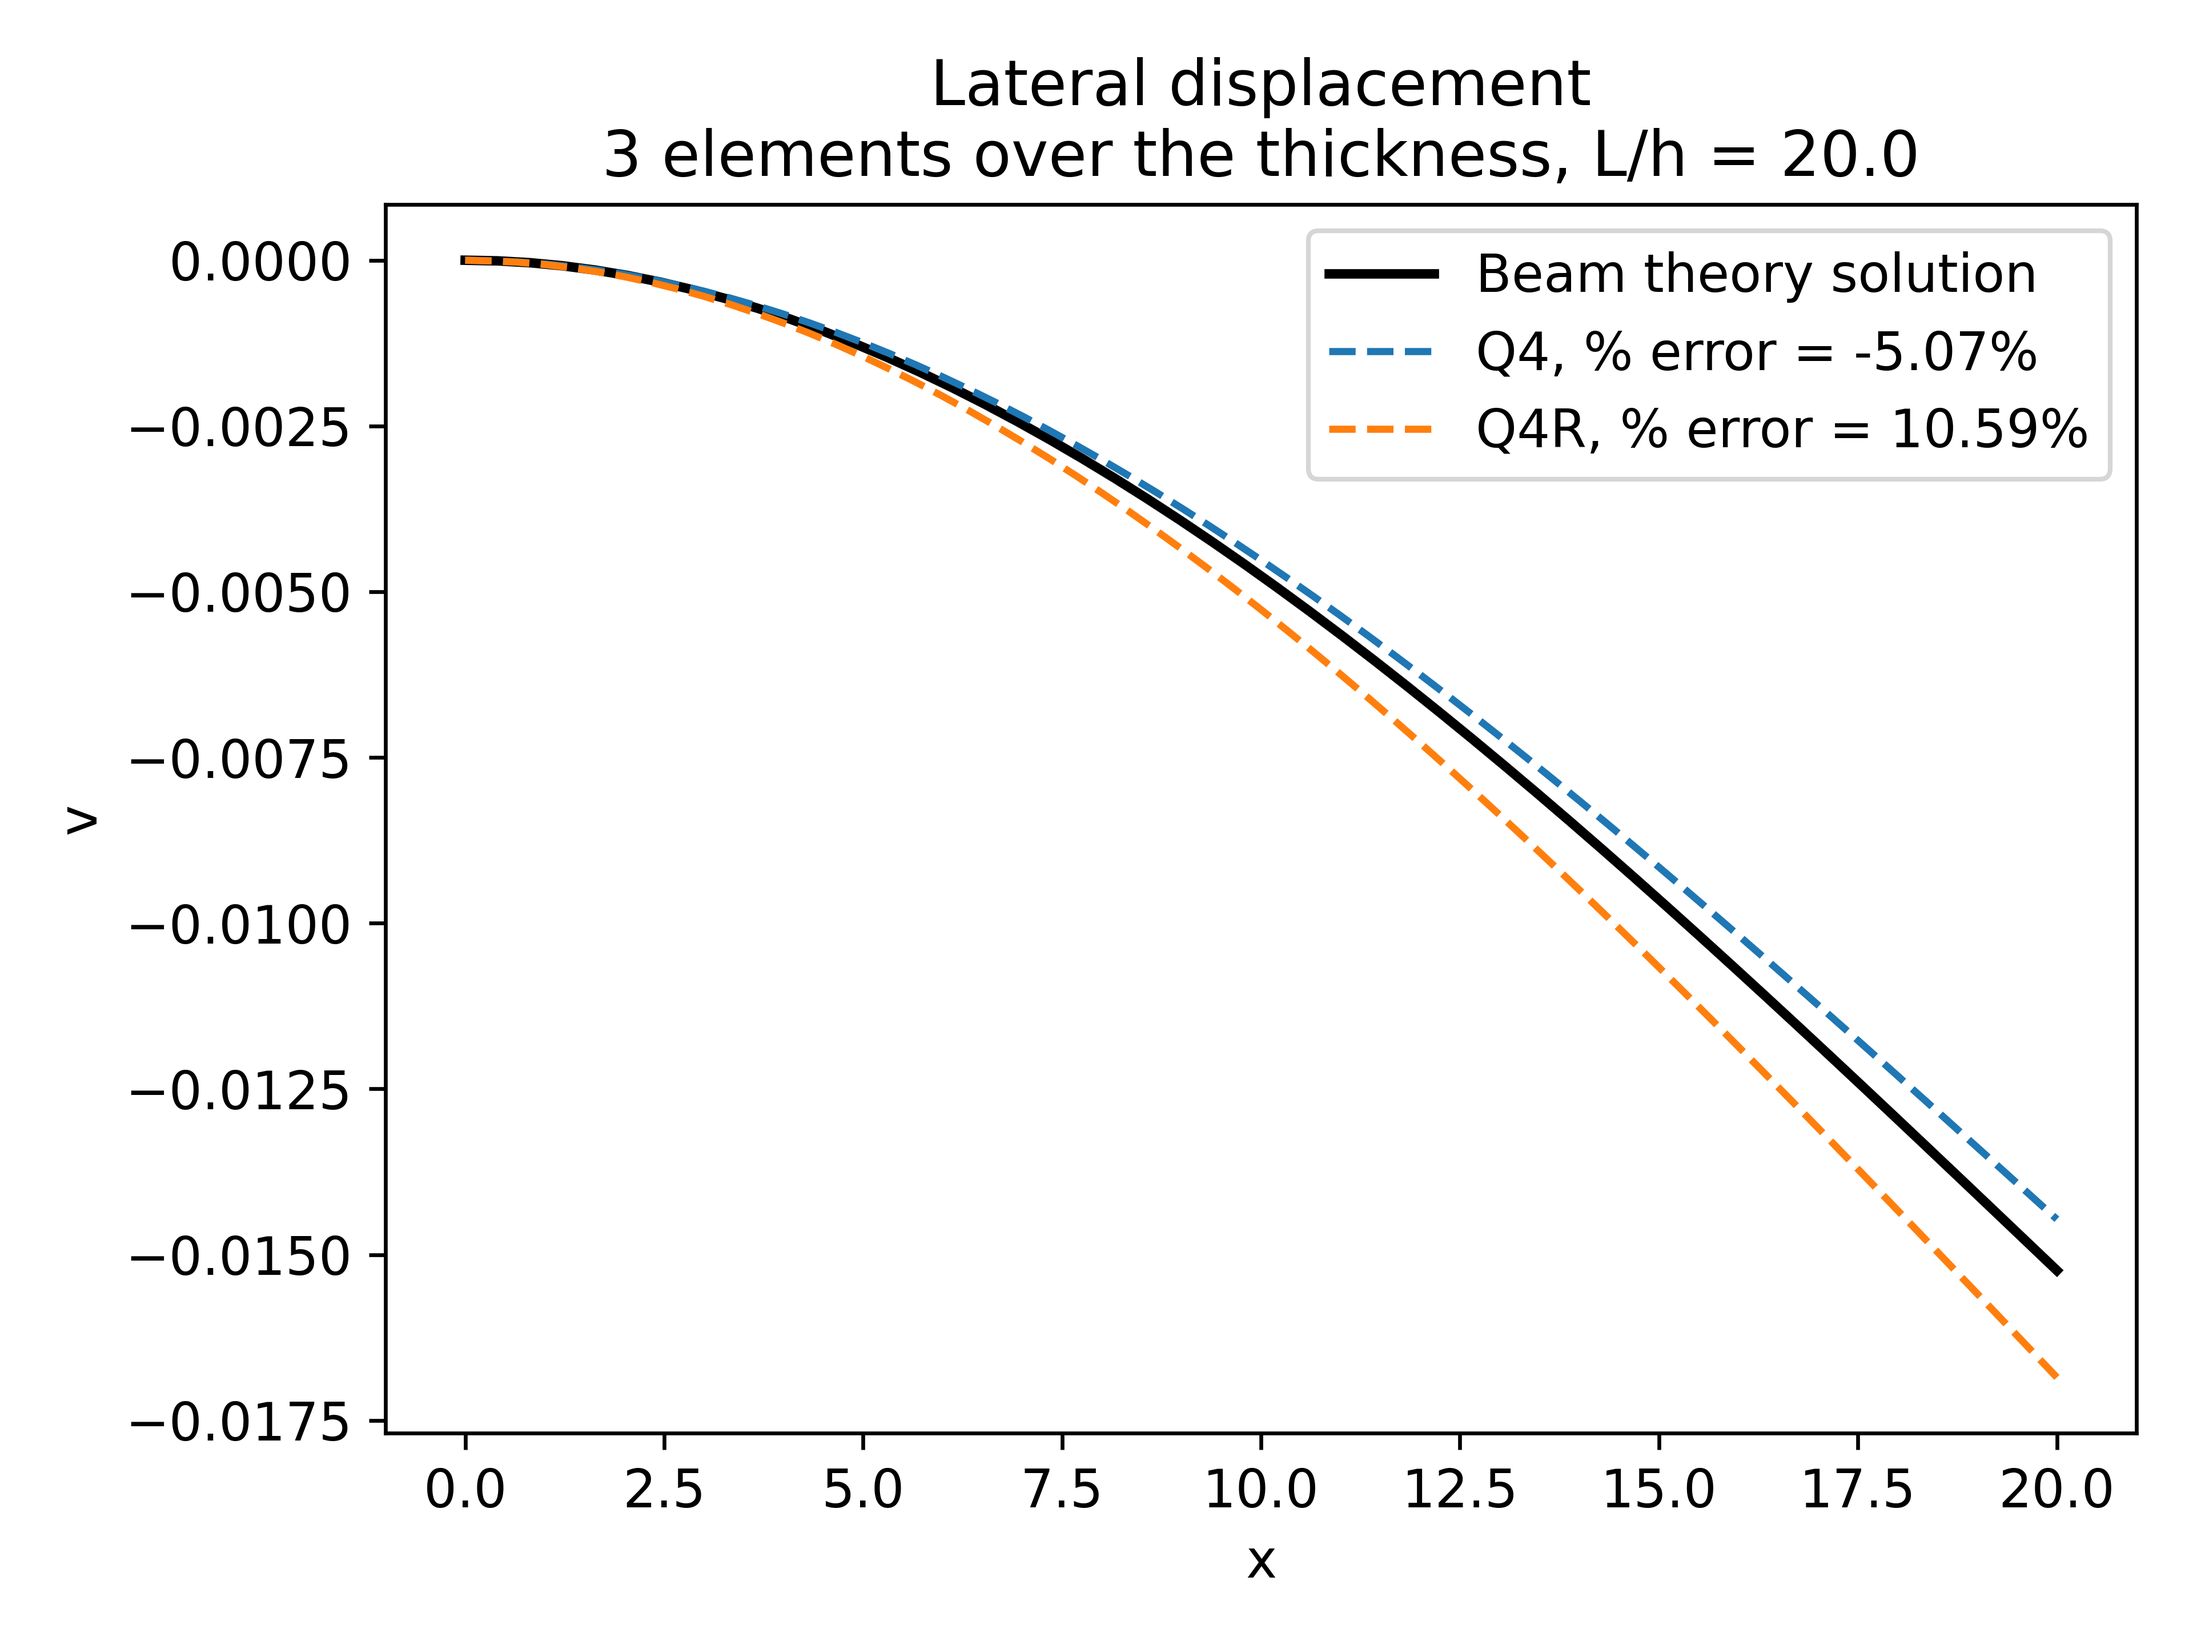
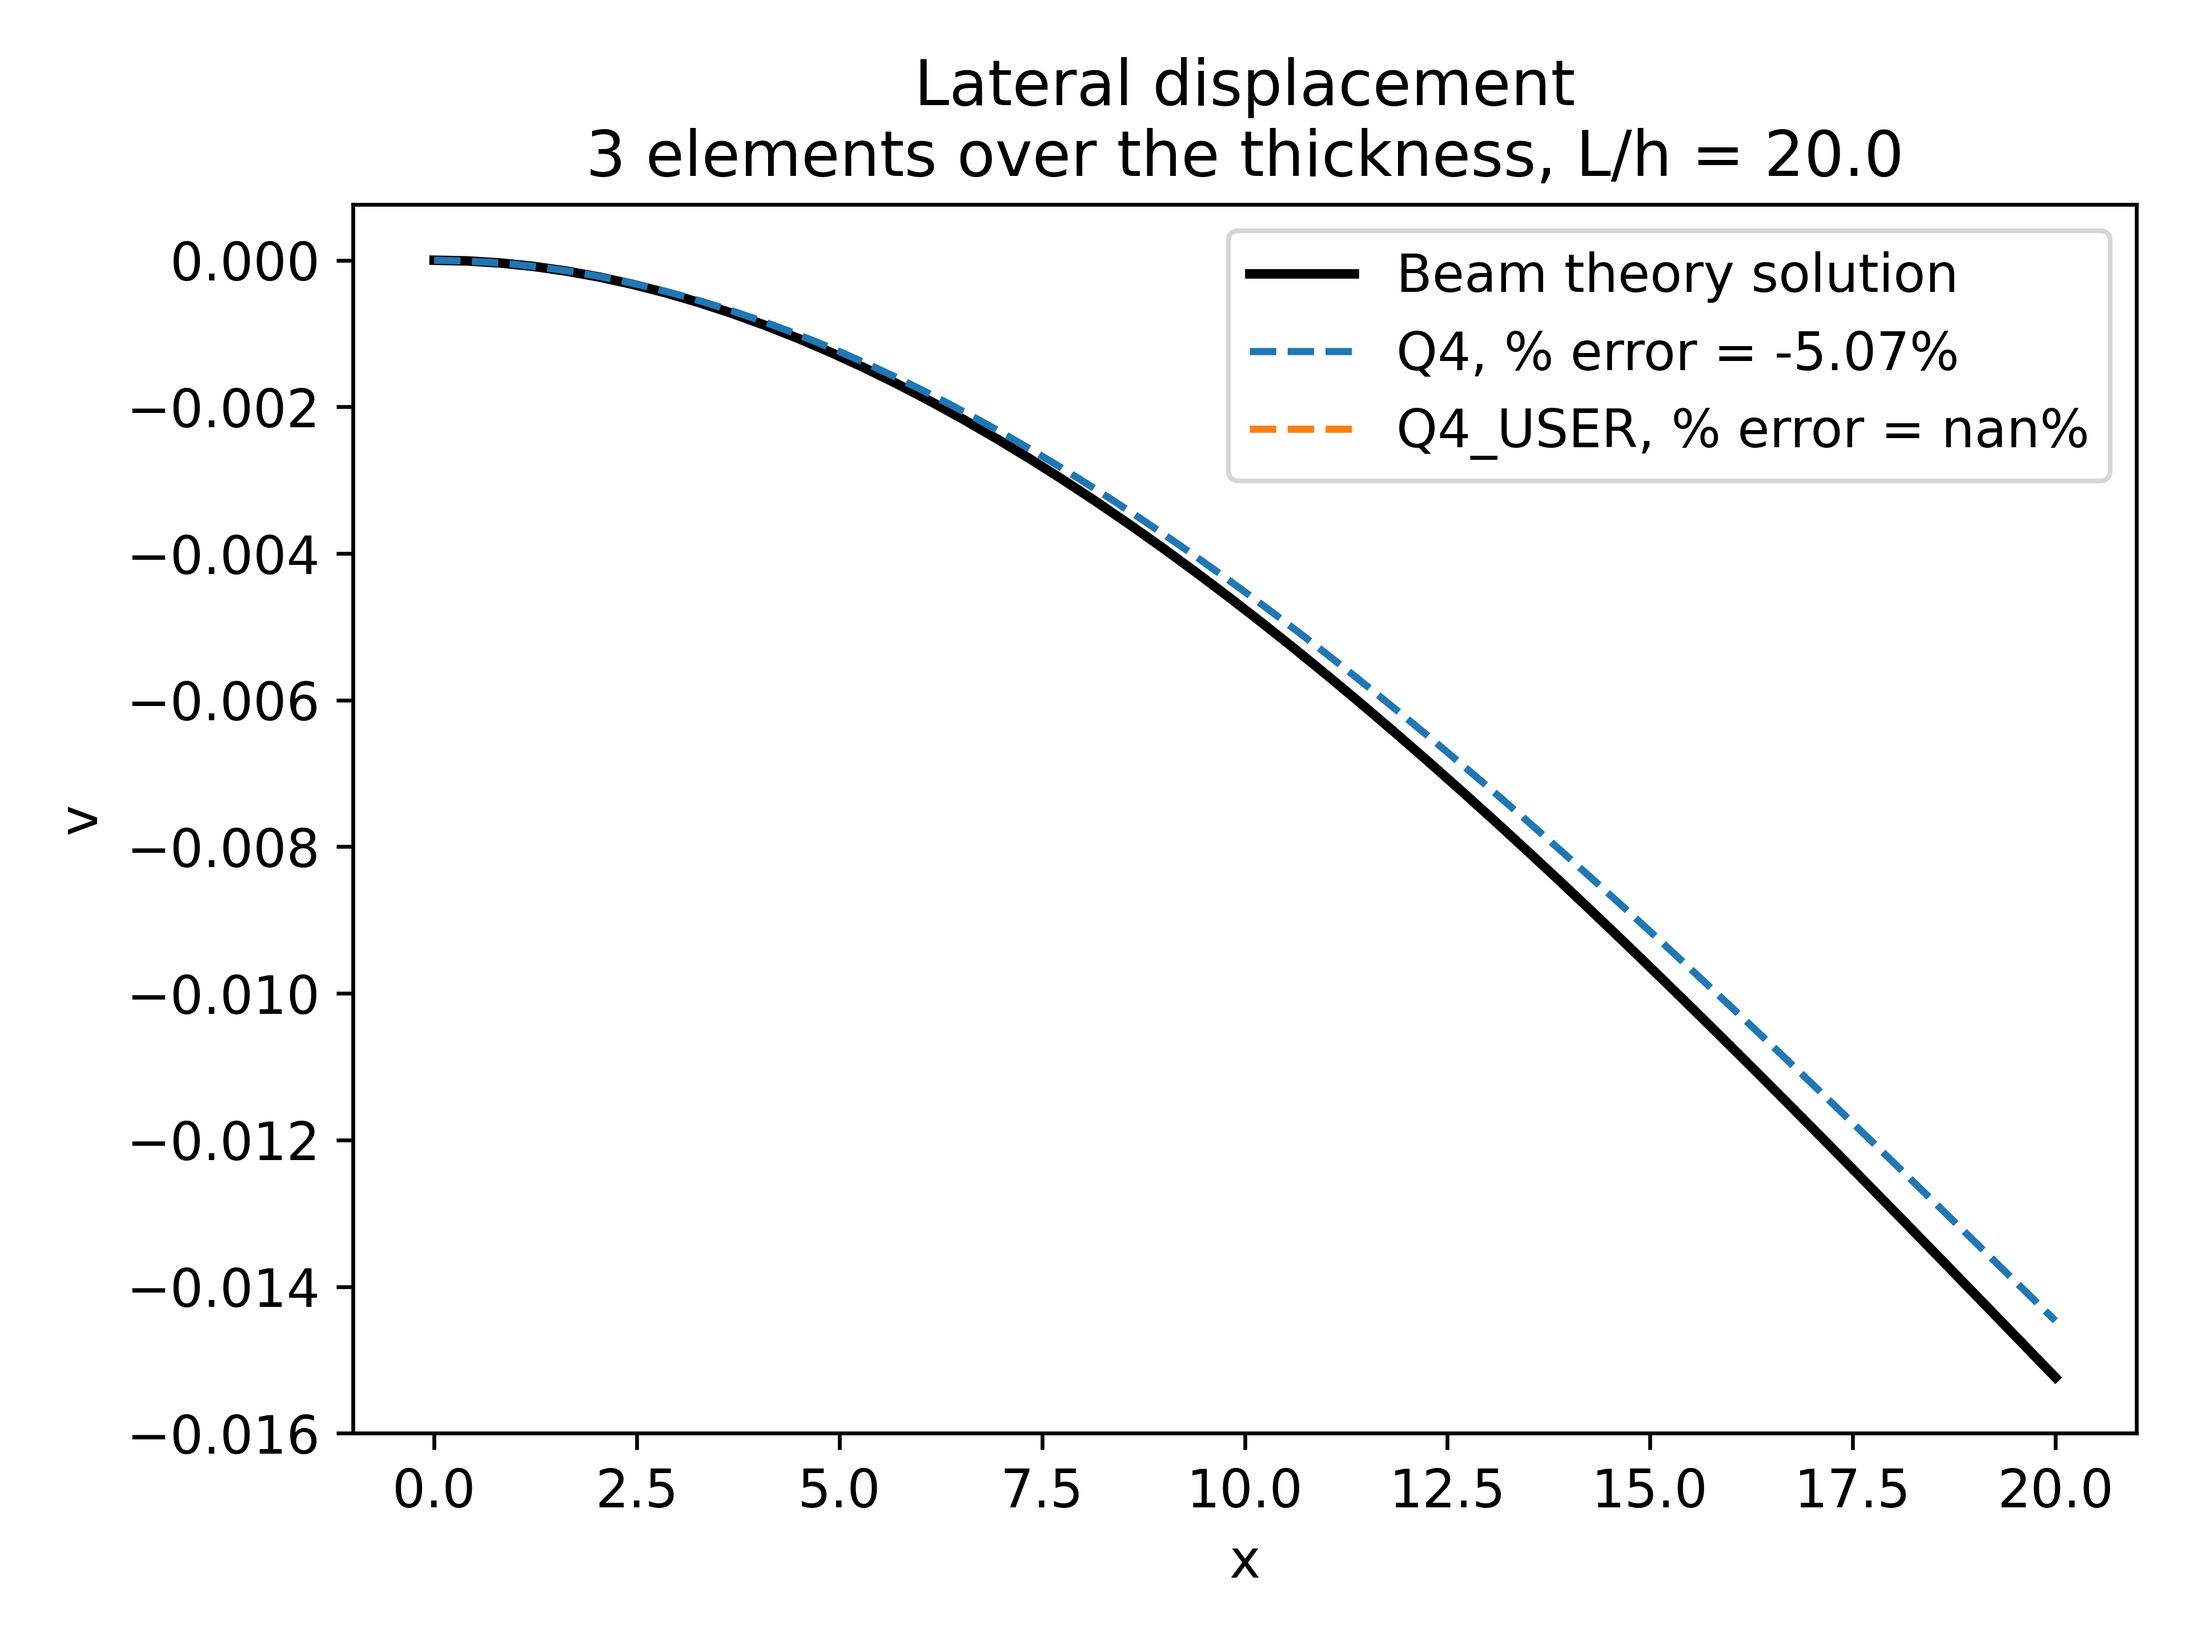
update

diff --git a/src/fem_utils.py b/src/fem_utils.py
@@ -99,12 +99,12 @@ def element_type_has_hourglass_stiffness(element_type):
 element_type_to_str = {
     ELEMENT_TYPE_Q4: "Q4",
     ELEMENT_TYPE_Q4R: "Q4R",
+    ELEMENT_TYPE_Q4_USER: "Q4_USER",
     ELEMENT_TYPE_Q8: "Q8",
     ELEMENT_TYPE_Q8R: "Q8R",
     ELEMENT_TYPE_Q9: "Q9",
     ELEMENT_TYPE_Q9R: "Q9R",
     ELEMENT_TYPE_Q16: "Q16",
-    ELEMENT_TYPE_Q4_USER: "Q4_USER"
 }
 
 element_type_to_nNl = {
@@ -115,8 +115,7 @@ element_type_to_nNl = {
     ELEMENT_TYPE_Q8R: 8,
     ELEMENT_TYPE_Q9: 9,
     ELEMENT_TYPE_Q9R: 9,
-    ELEMENT_TYPE_Q16: 16,
-    ELEMENT_TYPE_Q4_USER: 4
+    ELEMENT_TYPE_Q16: 16
 }
 
 element_type_to_nNl_1D = {
@@ -131,6 +130,7 @@ element_type_to_nNl_1D = {
 element_type_to_nGauss_1D = {
     ELEMENT_TYPE_Q4: 2,
     ELEMENT_TYPE_Q4R: 1,
+    ELEMENT_TYPE_Q4_USER: 2,
     ELEMENT_TYPE_Q8: 3,
     ELEMENT_TYPE_Q8R: 2,
     ELEMENT_TYPE_Q9: 3,

diff --git a/src/element_stiffness_user.py b/src/element_stiffness_user.py
@@ -19,6 +19,6 @@ def calc_Ke_plane_stress_user_Q4(config: Config, mesh: Mesh, e):
     #====================================================================
     # IMPLEMENT USER-DEFINED Q4 ELEMENT STIFFNESS CALCULATION BELOW:
     #====================================================================
-    print("User-defined Q4 element stiffness calculation not implemented")
+    print("User-defined Q4 element stiffness calculation not implemented")  #Remove this line
 
     return Ke

diff --git a/main.py b/main.py
@@ -8,7 +8,7 @@ if __name__ == "__main__":
     Lx = 1  #Length in x-direction
     Ly = 1  #Length in y-direction
     q = 0  #1000  #Line load applied to the top edge
-    element_type = ELEMENT_TYPE_Q4R  #Use quadrilateral element
+    element_type = ELEMENT_TYPE_Q4  #Use quadrilateral element
     problem_type = PROBLEM_TYPE_PLANE_STRESS  #Specify that a plane stress problem is solved
     nEx = 1  #Number of elements in x-direction
     nEy = 1  #Number of elements in y-direction
